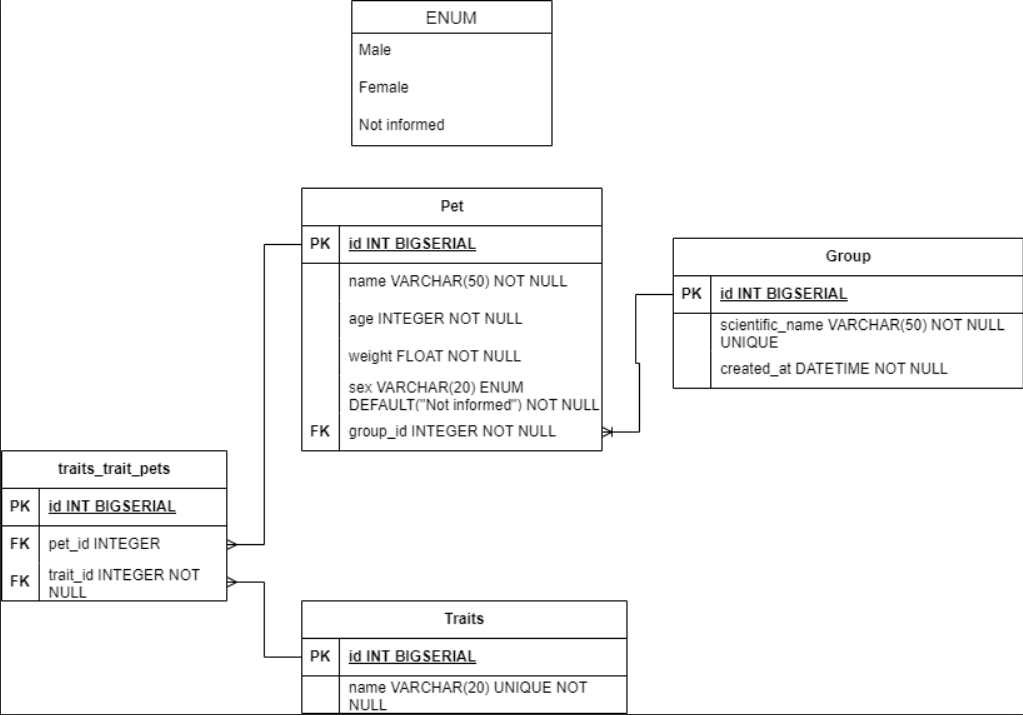
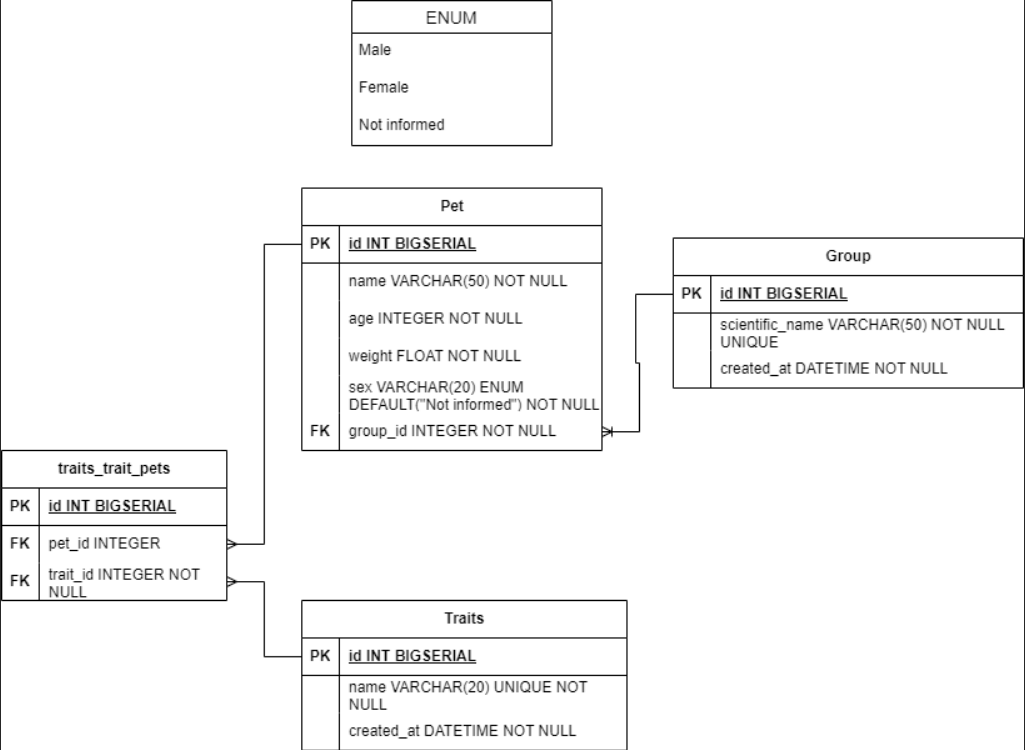
feat: tarefa 2 finalizada

diff --git a/pets/serializers.py b/pets/serializers.py
@@ -1,0 +1,16 @@
+from rest_framework import serializers
+from pets.models import SexOptions
+from groups.serializer import GroupSerializer
+from traits.serializers import TraitSerializer
+
+
+class PetSerializer(serializers.Serializer):
+    id = serializers.IntegerField(read_only=True)
+    name = serializers.CharField(max_length=50)
+    age = serializers.IntegerField()
+    weight = serializers.FloatField()
+    sex = serializers.ChoiceField(
+        choices=SexOptions.choices, default=SexOptions.NOT_INFORMED
+    )
+    group = GroupSerializer()
+    traits = TraitSerializer(default=None, many=True)

diff --git a/traits/migrations/0003_trait_created_at.py b/traits/migrations/0003_trait_created_at.py
@@ -1,0 +1,20 @@
+# Generated by Django 4.2 on 2023-04-04 18:34
+
+from django.db import migrations, models
+import django.utils.timezone
+
+
+class Migration(migrations.Migration):
+
+    dependencies = [
+        ('traits', '0002_alter_trait_pets'),
+    ]
+
+    operations = [
+        migrations.AddField(
+            model_name='trait',
+            name='created_at',
+            field=models.DateTimeField(auto_now_add=True, default=django.utils.timezone.now),
+            preserve_default=False,
+        ),
+    ]

diff --git a/traits/models.py b/traits/models.py
@@ -3,6 +3,7 @@ from django.db import models
 
 class Trait(models.Model):
     name = models.CharField(max_length=20, unique=True)
+    created_at = models.DateTimeField(auto_now_add=True)
     pets = models.ManyToManyField(
         "pets.Pet", related_name="traits", blank=True, null=True
     )

diff --git a/traits/serializers.py b/traits/serializers.py
@@ -1,0 +1,7 @@
+from rest_framework import serializers
+
+
+class TraitSerializer(serializers.Serializer):
+    id = serializers.IntegerField(read_only=True)
+    trait_name = serializers.CharField(max_length=50, source="name")
+    created_at = serializers.DateTimeField(read_only=True)

diff --git a/groups/serializer.py b/groups/serializer.py
@@ -1,0 +1,7 @@
+from rest_framework import serializers
+
+
+class GroupSerializer(serializers.Serializer):
+    id = serializers.IntegerField(read_only=True)
+    scientific_name = serializers.CharField(max_length=50)
+    created_at = serializers.DateTimeField(read_only=True)
